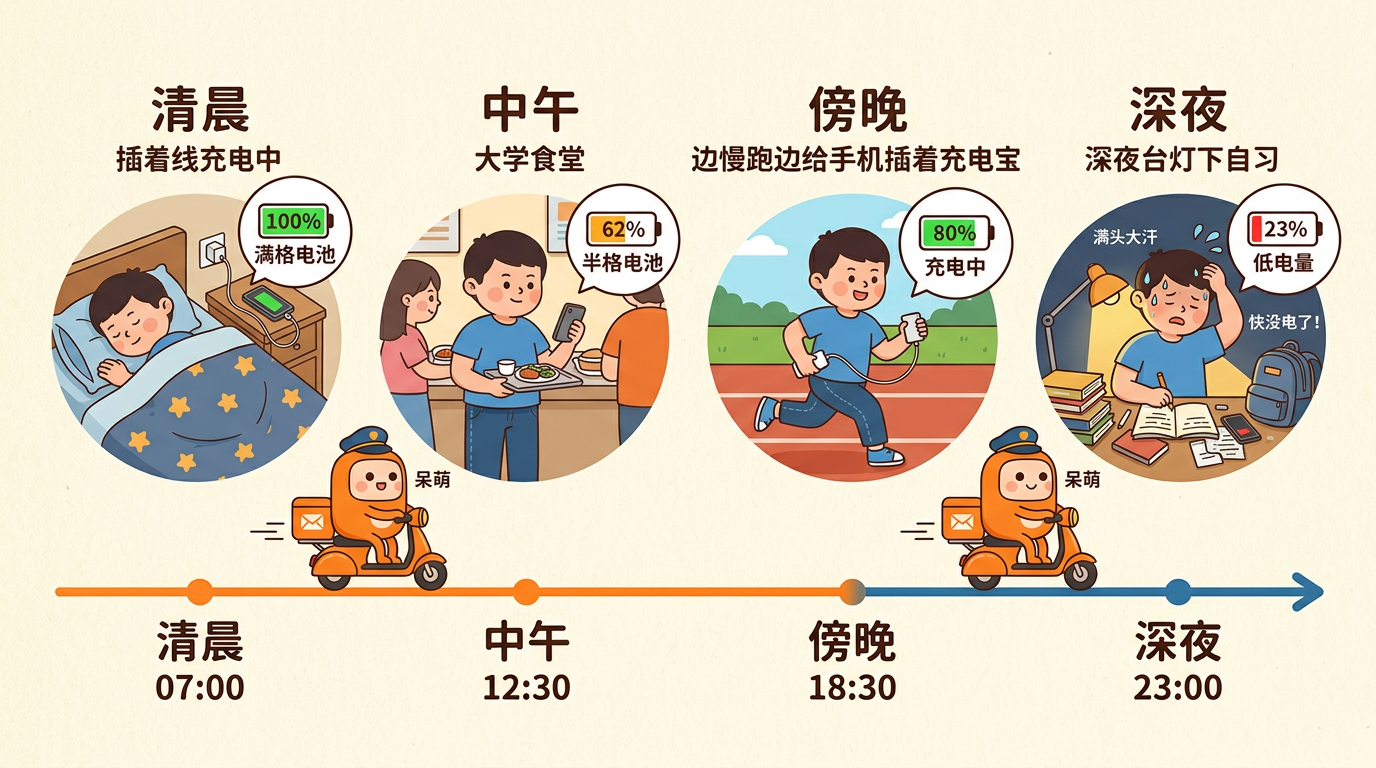
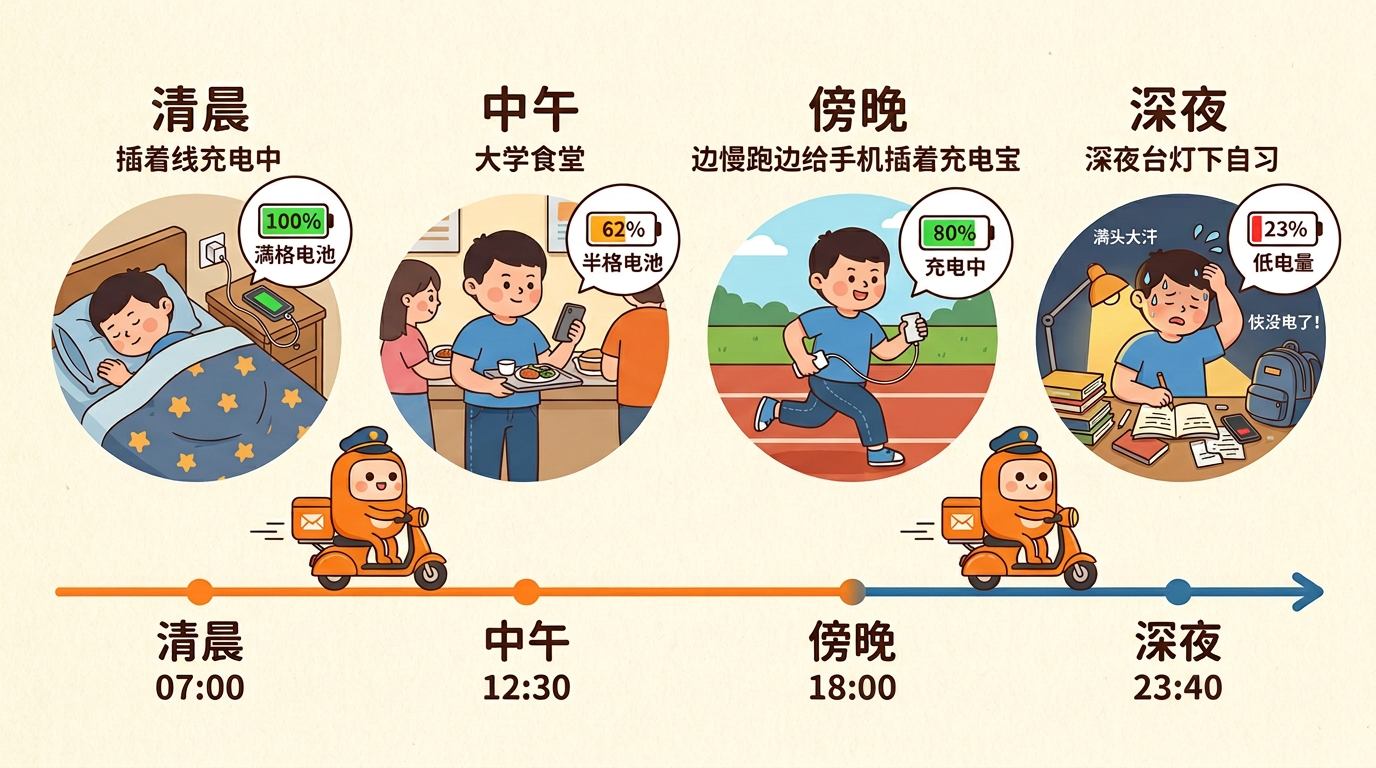
修复两处交互bug＋AI图第二批10张全部植入。【交互】①图片点击改为永远优先放大（揭晓监听捕获阶段对.pic放行，不再抢点击）——有未揭晓内容时也能先看图；②两课件新增底部揭晓提示条「本页还有N条内容未揭晓·点击页面任意处逐条显示」，有未揭晓内容时常驻可见，点击提示条或按R也可揭晓。【插图】4张修复图完成并植入：p07电量(时刻18:00/23:40+去杂字)/p29食堂(背景乱码→石邮食堂)/p40正定(八大碗12:30)/p50满减(够/不够中文标签)；6张新图植入：p16报错翻脸(新增)/p27带饭对比(换旧canteen图)/p28三要素剖面(新增)/p49外卖结算(新增,顶栏配递结

diff --git a/RPA/08_项目二_第1-3讲_变量命令流程_纸上篇_课件_v1.2_20260906.html b/RPA/08_项目二_第1-3讲_变量命令流程_纸上篇_课件_v1.2_20260906.html
@@ -248,28 +248,7 @@ const SLIDES = [
 {cls:"", html:`
   <div class="eyebrow">生活里找变量 · 第 1 站</div>
   <h1>你手机上的<span class="accent">电量</span>，今天变了几次？</h1>
-  <svg viewBox="0 0 980 240" style="width:100%;max-height:29vh;display:block;background:#fff;border:2px solid var(--line);border-radius:14px" xmlns="http://www.w3.org/2000/svg">
-  <text x="500" y="34" text-anchor="middle" font-size="24" fill="#5D4037">⚡ 低电量提醒：夜 23:40 才弹</text>
-  <circle cx="110" cy="120" r="50" fill="#FFF3E0" stroke="#BF360C" stroke-width="5"/>
-  <text x="110" y="131" text-anchor="middle" font-size="30" font-weight="bold" fill="#BF360C">100%</text>
-  <text x="110" y="200" text-anchor="middle" font-size="19" fill="#5D4037">早 7:00 出门</text>
-  <line x1="168" y1="120" x2="308" y2="120" stroke="#8D6E63" stroke-width="4"/><polygon points="308,112 326,120 308,128" fill="#8D6E63"/>
-  <text x="247" y="102" text-anchor="middle" font-size="19" fill="#5D4037">刷视频 −38</text>
-  <circle cx="380" cy="120" r="50" fill="#FFCC80" stroke="#BF360C" stroke-width="5"/>
-  <text x="380" y="131" text-anchor="middle" font-size="30" font-weight="bold" fill="#BF360C">62%</text>
-  <text x="380" y="200" text-anchor="middle" font-size="19" fill="#5D4037">午 12:30</text>
-  <line x1="438" y1="120" x2="578" y2="120" stroke="#2E7D32" stroke-width="4"/><polygon points="578,112 596,120 578,128" fill="#2E7D32"/>
-  <text x="517" y="102" text-anchor="middle" font-size="19" fill="#2E7D32">充电 +18</text>
-  <circle cx="650" cy="120" r="50" fill="#DCEDC8" stroke="#2E7D32" stroke-width="5"/>
-  <text x="650" y="131" text-anchor="middle" font-size="30" font-weight="bold" fill="#2E7D32">80%</text>
-  <text x="650" y="200" text-anchor="middle" font-size="19" fill="#5D4037">晚 18:00</text>
-  <line x1="708" y1="120" x2="848" y2="120" stroke="#8D6E63" stroke-width="4"/><polygon points="848,112 866,120 848,128" fill="#8D6E63"/>
-  <text x="787" y="102" text-anchor="middle" font-size="19" fill="#5D4037">待机一夜 −57</text>
-  <circle cx="920" cy="120" r="50" fill="#fff" stroke="#BF360C" stroke-width="5"/>
-  <text x="920" y="131" text-anchor="middle" font-size="30" font-weight="bold" fill="#BF360C">23%</text>
-  <text x="920" y="200" text-anchor="middle" font-size="19" fill="#5D4037">夜 23:40</text>
-  <rect x="120" y="196" width="700" height="0" fill="none"/>
-</svg>
+  <img class="pic" src="img/ai/p07_dianliang.png" alt="一天四次的电量：有名字·会变·只留最新">
   <div class="rv"><div class="anscard">📱 答案先不说——<b>屏幕上永远只有最新一个数</b>：62 一出现，100 就没了；80 一出现，62 就没了。三问的答案，等你抢答完再揭晓</div></div>
   <div class="steps">
     <div class="step"><div class="n">1</div><div class="t">早上出门 <b>100%</b>，一路刷视频，中午剩 <b>62%</b></div></div>
@@ -397,6 +376,7 @@ const SLIDES = [
 {cls:"", html:`
   <div class="eyebrow">为什么必须分清</div>
   <h1>分错类，机器人<span class="accent">当场翻脸</span></h1>
+  <img class="pic" src="img/ai/p16_fanlian.png" alt=""A8-2012"+10 报错现场：类型混用，机器人翻脸">
   <ul class="items">
     <li>✅ <b>35.5 + 10 = 45.5</b>——数值能算术，天经地义</li>
     <li>❌ <b>"A8-2012" + 10 = ？</b>——编号是文字，加 10 是要干嘛？机器人<b>直接报错</b></li>
@@ -515,7 +495,7 @@ const SLIDES = [
   <div class="eyebrow">引入 · 先说生活</div>
   <h1>让室友带饭，<span class="accent">怎么说他才不会买错？</span></h1>
   <div class="duo">
-    <img class="pic" src="img/canteen.png" alt="食堂打饭窗口">
+    <img class="pic" src="img/ai/p27_daifan.png" alt="「带个饭回来」vs 清单四行：焖面·1份·不要辣·加醋·多要饭">
     <img class="pic" src="img/cmdcard.png" alt="命令卡">
   </div>
   <ul class="items" style="margin-top:8px">
@@ -529,6 +509,7 @@ const SLIDES = [
 {cls:"", html:`
   <div class="eyebrow">老师命名 · 这就是命令的三要素</div>
   <h1>动作 ＋ 参数 ＋ <span class="accent">输出</span></h1>
+  <img class="pic" src="img/ai/p28_sanyaosu.png" alt="命令三要素：参数→动作→输出">
   <div class="cards">
     <div class="card"><h2>动作</h2><li>干什么：买饭／排序／弹出提示</li></div>
     <div class="card"><h2>参数</h2><li>按什么要求：12 元／按姓名排</li></div>
@@ -542,38 +523,7 @@ const SLIDES = [
 {cls:"", html:`
   <div class="eyebrow">案例① · 背景</div>
   <h1>石邮院食堂二楼的<span class="accent">叫号屏</span></h1>
-  <svg viewBox="0 0 980 330" style="width:100%;max-height:29vh;display:block;background:#fff;border:2px solid var(--line);border-radius:14px" xmlns="http://www.w3.org/2000/svg">
-  <text x="245" y="32" text-anchor="middle" font-size="24" fill="#BF360C" font-weight="bold">🕑 12:02 大屏坏时</text>
-  <rect x="40" y="52" width="410" height="170" rx="12" fill="#FFF3E0" stroke="#BF360C" stroke-width="3"/>
-  <rect x="58" y="80" width="80" height="118" fill="#FFCC80" stroke="#8D6E63" stroke-width="3"/>
-  <text x="98" y="146" text-anchor="middle" font-size="19" fill="#5D4037">取餐口</text>
-  <circle cx="200" cy="120" r="14" fill="#8D6E63"/><rect x="188" y="136" width="24" height="40" rx="8" fill="#8D6E63"/>
-  <circle cx="252" cy="105" r="14" fill="#BF360C"/><rect x="240" y="121" width="24" height="42" rx="8" fill="#BF360C"/>
-  <circle cx="305" cy="128" r="14" fill="#5D4037"/><rect x="293" y="144" width="24" height="38" rx="8" fill="#5D4037"/>
-  <circle cx="358" cy="108" r="14" fill="#8D6E63"/><rect x="346" y="124" width="24" height="42" rx="8" fill="#8D6E63"/>
-  <circle cx="410" cy="132" r="14" fill="#BF360C"/><rect x="398" y="148" width="24" height="36" rx="8" fill="#BF360C"/>
-  <rect x="196" y="66" width="104" height="30" rx="12" fill="#fff" stroke="#BF360C" stroke-width="2"/>
-  <text x="248" y="87" text-anchor="middle" font-size="17" fill="#BF360C">先给我！</text>
-  <rect x="300" y="180" width="128" height="30" rx="12" fill="#fff" stroke="#5D4037" stroke-width="2"/>
-  <text x="364" y="201" text-anchor="middle" font-size="17" fill="#5D4037">是不是我的？</text>
-  <line x1="190" y1="200" x2="230" y2="182" stroke="#BF360C" stroke-width="3"/>
-  <line x1="230" y1="200" x2="190" y2="182" stroke="#BF360C" stroke-width="3"/>
-  <text x="245" y="250" text-anchor="middle" font-size="20" fill="#5D4037">20 多人挤成一团，全靠嗓子喊</text>
-  <text x="245" y="282" text-anchor="middle" font-size="23" fill="#BF360C" font-weight="bold">＝ 没有命令，全靠猜</text>
-  <line x1="490" y1="40" x2="490" y2="292" stroke="#E0D5C3" stroke-width="3" stroke-dasharray="8 6"/>
-  <text x="735" y="32" text-anchor="middle" font-size="24" fill="#2E7D32" font-weight="bold">🕓 12:10 大屏修好后</text>
-  <rect x="530" y="52" width="410" height="170" rx="12" fill="#fff" stroke="#2E7D32" stroke-width="3"/>
-  <rect x="552" y="72" width="250" height="52" rx="10" fill="#DCEDC8" stroke="#2E7D32" stroke-width="3"/>
-  <text x="677" y="105" text-anchor="middle" font-size="21" fill="#2E7D32" font-weight="bold">「37 号，麻辣烫好了」</text>
-  <line x1="677" y1="124" x2="677" y2="152" stroke="#2E7D32" stroke-width="3"/><polygon points="677,152 670,140 684,140" fill="#2E7D32"/>
-  <circle cx="677" cy="172" r="13" fill="#2E7D32"/><rect x="666" y="187" width="22" height="30" rx="8" fill="#2E7D32"/>
-  <path d="M 700 205 q 12 -14 24 0 z" fill="#BF360C"/>
-  <rect x="742" y="160" width="170" height="30" rx="12" fill="#fff" stroke="#2E7D32" stroke-width="2"/>
-  <text x="827" y="181" text-anchor="middle" font-size="17" fill="#2E7D32">37 号端走，队伍顺了</text>
-  <text x="735" y="250" text-anchor="middle" font-size="20" fill="#5D4037">同样一群人、同一个窗口</text>
-  <text x="735" y="282" text-anchor="middle" font-size="23" fill="#2E7D32" font-weight="bold">＝ 一条命令，三样齐全</text>
-  <text x="490" y="318" text-anchor="middle" font-size="20" fill="#8D6E63">变的只有一件事：话说没说清楚</text>
-</svg>
+  <img class="pic" src="img/ai/p29_jiaohao.png" alt="12:02没命令全靠猜 vs 12:10一条命令三样齐全">
   <ul class="items" style="margin-top:6px">
       <li>周三 12:02，食堂二楼<b>麻辣烫窗口</b>排了 20 多人，取餐口挤成一团——谁端走了谁的碗，全靠嗓子喊</li>
       <li>12:10 大屏修好，弹出一句话，队伍立刻顺了：<b>「37 号同学，你的麻辣烫好了」</b></li>
@@ -697,38 +647,7 @@ const SLIDES = [
   ], html:`
   <div class="eyebrow">案例③ · 背景</div>
   <h1>周六，正定古城<span class="accent">一日游</span></h1>
-  <svg viewBox="0 0 980 400" style="width:100%;max-height:27vh;display:block;background:#fff;border:2px solid var(--line);border-radius:14px" xmlns="http://www.w3.org/2000/svg">
-  <rect x="20" y="52" width="96" height="40" rx="20" fill="#BF360C"/><text x="68" y="80" text-anchor="middle" font-size="23" fill="#fff">顺序</text>
-  <rect x="130" y="56" width="128" height="54" rx="12" fill="#FFF3E0" stroke="#BF360C" stroke-width="3"/><text x="194" y="90" text-anchor="middle" font-size="22" fill="#212121">石邮院</text>
-  <line x1="258" y1="83" x2="296" y2="83" stroke="#8D6E63" stroke-width="3"/><polygon points="296,76 310,83 296,90" fill="#8D6E63"/>
-  <rect x="312" y="56" width="128" height="54" rx="12" fill="#FFF3E0" stroke="#BF360C" stroke-width="3"/><text x="376" y="90" text-anchor="middle" font-size="22" fill="#212121">隆兴寺</text>
-  <line x1="440" y1="83" x2="478" y2="83" stroke="#8D6E63" stroke-width="3"/><polygon points="478,76 492,83 478,90" fill="#8D6E63"/>
-  <rect x="494" y="56" width="150" height="54" rx="12" fill="#FFF3E0" stroke="#BF360C" stroke-width="3"/><text x="569" y="90" text-anchor="middle" font-size="22" fill="#212121">荣国府·午餐</text>
-  <line x1="644" y1="83" x2="682" y2="83" stroke="#8D6E63" stroke-width="3"/><polygon points="682,76 696,83 682,90" fill="#8D6E63"/>
-  <rect x="698" y="56" width="128" height="54" rx="12" fill="#FFF3E0" stroke="#BF360C" stroke-width="3"/><text x="762" y="90" text-anchor="middle" font-size="22" fill="#212121">正定夜市</text>
-  <line x1="826" y1="83" x2="856" y2="83" stroke="#8D6E63" stroke-width="3"/><polygon points="856,76 870,83 856,90" fill="#8D6E63"/>
-  <rect x="872" y="56" width="88" height="54" rx="12" fill="#FFF3E0" stroke="#BF360C" stroke-width="3"/><text x="916" y="90" text-anchor="middle" font-size="22" fill="#212121">回校</text>
-  <rect x="20" y="182" width="96" height="40" rx="20" fill="#2E7D32"/><text x="68" y="210" text-anchor="middle" font-size="23" fill="#fff">条件</text>
-  <polygon points="330,146 446,202 330,258 214,202" fill="#fff" stroke="#2E7D32" stroke-width="3"/>
-  <text x="330" y="196" text-anchor="middle" font-size="22" fill="#212121">天气</text>
-  <text x="330" y="226" text-anchor="middle" font-size="22" fill="#212121">怎么样？</text>
-  <line x1="446" y1="188" x2="520" y2="164" stroke="#2E7D32" stroke-width="3"/><polygon points="520,164 506,162 512,174" fill="#2E7D32"/>
-  <text x="486" y="158" text-anchor="middle" font-size="20" fill="#2E7D32">下雨</text>
-  <rect x="524" y="140" width="200" height="50" rx="12" fill="#E8F0E9" stroke="#2E7D32" stroke-width="3"/><text x="624" y="172" text-anchor="middle" font-size="21" fill="#212121">改逛博物馆</text>
-  <line x1="446" y1="216" x2="520" y2="244" stroke="#8D6E63" stroke-width="3"/><polygon points="520,244 512,232 506,244" fill="#8D6E63"/>
-  <text x="486" y="252" text-anchor="middle" font-size="20" fill="#5D4037">晴天</text>
-  <rect x="524" y="222" width="200" height="50" rx="12" fill="#FFF3E0" stroke="#BF360C" stroke-width="3"/><text x="624" y="254" text-anchor="middle" font-size="21" fill="#212121">按原路线走</text>
-  <rect x="20" y="316" width="96" height="40" rx="20" fill="#5D4037"/><text x="68" y="344" text-anchor="middle" font-size="23" fill="#fff">循环</text>
-  <rect x="150" y="316" width="190" height="54" rx="12" fill="#FFF3E0" stroke="#5D4037" stroke-width="3"/><text x="245" y="350" text-anchor="middle" font-size="21" fill="#212121">每到一个景点</text>
-  <line x1="340" y1="343" x2="388" y2="343" stroke="#8D6E63" stroke-width="3"/><polygon points="388,336 402,343 388,350" fill="#8D6E63"/>
-  <rect x="404" y="316" width="180" height="54" rx="12" fill="#FFF3E0" stroke="#5D4037" stroke-width="3"/><text x="494" y="350" text-anchor="middle" font-size="21" fill="#212121">打卡拍照</text>
-  <line x1="584" y1="343" x2="632" y2="343" stroke="#8D6E63" stroke-width="3"/><polygon points="632,336 646,343 632,350" fill="#8D6E63"/>
-  <rect x="648" y="316" width="170" height="54" rx="12" fill="#FFF3E0" stroke="#5D4037" stroke-width="3"/><text x="733" y="350" text-anchor="middle" font-size="21" fill="#212121">去下一个</text>
-  <path d="M 733 316 C 733 288 245 288 245 314" fill="none" stroke="#5D4037" stroke-width="3" stroke-dasharray="8 6"/>
-  <polygon points="245,314 238,300 252,300" fill="#5D4037"/>
-  <text x="490" y="292" text-anchor="middle" font-size="20" fill="#5D4037">重复，直到把 4 个景点逛完</text>
-  <text x="500" y="392" text-anchor="middle" font-size="20" fill="#8D6E63">——班委贴在群里的三行命令，就长这样（找找哪行缺了关键参数）</text>
-</svg>
+  <img class="pic" src="img/ai/p40_zhengding.png" alt="正定古城一日游行程图：顺序+条件+循环">
   <ul class="items" style="margin-top:6px">
     <li>周五晚，班级群接龙：<b>38 人报名</b>。班委包了往返大巴（每人 15 元）；隆兴寺<b>学生半价 25 元</b>；中午荣国府旁吃<b>正定八大碗</b>；晚上逛正定夜市再回学校</li>
     <li>班委把行程写成了三行命令，贴在群里：<br>
@@ -841,6 +760,7 @@ const SLIDES = [
 {cls:"", html:`
   <div class="eyebrow">回收 · 第 2 次课那道题</div>
   <h1>外卖满减：<span class="accent">这回机器人算</span></h1>
+  <img class="pic" src="img/ai/p49_waimai.png" alt="外卖满减：39.9×2=79.8，满25减4，应付75.8">
   <ul class="items">
     <li>第 2 次课：老师黑板算——39.9 × 2 → 满 25 减 4 → <b>应付 75.8</b></li>
     <li>今天：<b>你让「人机器人」算</b>——同桌照你的图纸一步一步执行</li>
@@ -852,40 +772,13 @@ const SLIDES = [
   <div class="eyebrow">任务卡 A</div>
   <div class="task-card">
     <h2>🛒 外卖满减计算器</h2>
-    <li><img class="pic" src="img/waimai.png" alt="外卖满减" style="max-height:18vh;max-width:34%"></li>
+    <li></li>
     <li>① 建变量：单价（39.9）、份数（2）——<b>选对类型</b></li>
     <li>② 算出小计，再判断：<b>满 25 减 4</b>（这就是条件！）</li>
     <li>③ 弹出：「应付 75.8 元」</li>
     <li>🏅 挑战：份数改成 3，你的流程还 对 吗？先猜再「跑」</li>
   </div>
-<svg viewBox="0 0 980 280" style="width:100%;max-height:24vh;display:block;background:#fff;border:2px solid var(--line);border-radius:14px;margin-top:8px" xmlns="http://www.w3.org/2000/svg">
-  <rect x="40" y="100" width="210" height="70" rx="12" fill="#FFF3E0" stroke="#BF360C" stroke-width="3"/>
-  <text x="145" y="128" text-anchor="middle" font-size="20" fill="#212121">输入</text>
-  <text x="145" y="156" text-anchor="middle" font-size="20" fill="#BF360C" font-weight="bold">单价 39.9 × 2 份</text>
-  <line x1="250" y1="135" x2="296" y2="135" stroke="#8D6E63" stroke-width="3"/><polygon points="296,128 310,135 296,142" fill="#8D6E63"/>
-  <rect x="312" y="100" width="170" height="70" rx="12" fill="#fff" stroke="#5D4037" stroke-width="3"/>
-  <text x="397" y="128" text-anchor="middle" font-size="20" fill="#212121">算小计</text>
-  <text x="397" y="156" text-anchor="middle" font-size="20" fill="#BF360C" font-weight="bold">79.8 元</text>
-  <line x1="482" y1="135" x2="520" y2="135" stroke="#8D6E63" stroke-width="3"/><polygon points="520,128 534,135 520,142" fill="#8D6E63"/>
-  <polygon points="625,80 740,135 625,190 510,135" fill="#fff" stroke="#BF360C" stroke-width="3"/>
-  <text x="625" y="128" text-anchor="middle" font-size="20" fill="#212121">小计 ≥ 25 ？</text>
-  <text x="625" y="156" text-anchor="middle" font-size="18" fill="#8D6E63">（满减线）</text>
-  <line x1="740" y1="120" x2="790" y2="92" stroke="#2E7D32" stroke-width="3"/><polygon points="790,92 776,92 784,104" fill="#2E7D32"/>
-  <text x="762" y="86" text-anchor="middle" font-size="19" fill="#2E7D32" font-weight="bold">是</text>
-  <rect x="794" y="56" width="170" height="56" rx="12" fill="#DCEDC8" stroke="#2E7D32" stroke-width="3"/>
-  <text x="879" y="90" text-anchor="middle" font-size="19" fill="#2E7D32">应付＝小计 − 4</text>
-  <line x1="740" y1="152" x2="790" y2="180" stroke="#BF360C" stroke-width="3"/><polygon points="790,180 784,168 776,180" fill="#BF360C"/>
-  <text x="762" y="192" text-anchor="middle" font-size="19" fill="#BF360C" font-weight="bold">否</text>
-  <rect x="794" y="176" width="170" height="56" rx="12" fill="#FFF3E0" stroke="#BF360C" stroke-width="3"/>
-  <text x="879" y="210" text-anchor="middle" font-size="19" fill="#BF360C">应付＝小计</text>
-  <line x1="879" y1="112" x2="879" y2="226" stroke="#8D6E63" stroke-width="0"/>
-  <path d="M 879 232 C 879 262 500 262 470 240" fill="none" stroke="#8D6E63" stroke-width="3"/>
-  <path d="M 700 232 C 700 262 660 262 640 248" fill="none" stroke="#8D6E63" stroke-width="3"/>
-  <polygon points="470,240 470,226 484,234" fill="#8D6E63"/>
-  <rect x="300" y="216" width="330" height="50" rx="12" fill="#FFCC80" stroke="#BF360C" stroke-width="3"/>
-  <text x="465" y="248" text-anchor="middle" font-size="21" fill="#BF360C" font-weight="bold">弹出：「应付 75.8 元」</text>
-  <text x="490" y="34" text-anchor="middle" font-size="22" fill="#5D4037" font-weight="bold">外卖满减计算器 · 图纸（第 5 次课照它搭真流程）</text>
-</svg>`,
+<img class="pic" src="img/ai/p50_manjian.png" alt="满减流程：输入→小计79.8→够25吗→减4/原价→75.8">`,
  notes:"挑战题专门抓「写死 75.8」的人——数是变量算出来的，不是抄出来的。这正是变量的意义。"},
 
 {cls:"", html:`
@@ -950,25 +843,7 @@ const SLIDES = [
 
 {cls:"", html:`
   <div class="eyebrow">全班找错 · 三张带病图纸</div>
-  <svg viewBox="0 0 980 220" style="width:100%;max-height:19vh;display:block;background:#fff;border:2px solid var(--line);border-radius:14px;margin-bottom:8px" xmlns="http://www.w3.org/2000/svg">
-  <text x="490" y="32" text-anchor="middle" font-size="22" fill="#5D4037" font-weight="bold">调试三步 · 一个圈转到底</text>
-  <rect x="60" y="70" width="230" height="76" rx="14" fill="#FFF3E0" stroke="#BF360C" stroke-width="3"/>
-  <text x="175" y="102" text-anchor="middle" font-size="21" fill="#BF360C" font-weight="bold">① 读现象</text>
-  <text x="175" y="130" text-anchor="middle" font-size="18" fill="#212121">执行人卡在哪一步？</text>
-  <line x1="290" y1="108" x2="346" y2="108" stroke="#8D6E63" stroke-width="3"/><polygon points="346,101 360,108 346,115" fill="#8D6E63"/>
-  <rect x="362" y="70" width="230" height="76" rx="14" fill="#fff" stroke="#5D4037" stroke-width="3"/>
-  <text x="477" y="102" text-anchor="middle" font-size="21" fill="#5D4037" font-weight="bold">② 定位</text>
-  <text x="477" y="130" text-anchor="middle" font-size="18" fill="#212121">图纸的那一行——就一处</text>
-  <line x1="592" y1="108" x2="648" y2="108" stroke="#8D6E63" stroke-width="3"/><polygon points="648,101 662,108 648,115" fill="#8D6E63"/>
-  <rect x="664" y="70" width="230" height="76" rx="14" fill="#E8F0E9" stroke="#2E7D32" stroke-width="3"/>
-  <text x="779" y="102" text-anchor="middle" font-size="21" fill="#2E7D32" font-weight="bold">③ 最小改动</text>
-  <text x="779" y="130" text-anchor="middle" font-size="18" fill="#212121">一次只改一处，马上再跑</text>
-  <path d="M 779 70 C 779 30 175 30 175 66" fill="none" stroke="#BF360C" stroke-width="3" stroke-dasharray="8 6"/>
-  <polygon points="175,66 168,52 182,52" fill="#BF360C"/>
-  <text x="477" y="46" text-anchor="middle" font-size="18" fill="#BF360C">再跑还卡？回①——别一口气改五处</text>
-  <text x="490" y="188" text-anchor="middle" font-size="19" fill="#8D6E63">每收一次网，册子记一行：现象 → 改了哪行 → 再跑怎样（排错三行）</text>
-  <text x="490" y="214" text-anchor="middle" font-size="19" fill="#212121">下面三张病号图纸，照这个圈诊一遍——病在哪一行？</text>
-</svg>
+  <img class="pic" src="img/ai/p57_bingli.png" alt="三张带病图纸：少参数·类型错·顺序反">
   <div class="task-card">
     <h2>🐛 投影三张图纸，病在哪？</h2>
     <li>病号①：<b>变量名对不上</b>——图纸上建的是 banFei，用的时候写成 bangFei</li>
@@ -1124,12 +999,26 @@ window.addEventListener("touchend", (e) => {
     h[0].classList.add("rvshow");
     if (h[0].scrollIntoView) h[0].scrollIntoView({behavior:"smooth", block:"nearest"});
     if (!hiddenRv().length && rvBtn) rvBtn.textContent = "✓ 已揭晓";
+    syncRvPill();
   }
   if (rvBtn) rvBtn.onclick = revealNext;
+  /* ===== 揭晓提示条：有未揭晓内容时常驻提示，写明点哪里 ===== */
+  var rvPill = document.createElement("div");
+  rvPill.className = "rvpill";
+  rvPill.style.cssText = "position:fixed;left:50%;transform:translateX(-50%);bottom:64px;background:#BF360C;color:#fff;padding:9px 22px;border-radius:999px;font-size:17px;z-index:60;box-shadow:0 4px 12px rgba(0,0,0,.28);display:none;cursor:pointer;white-space:nowrap";
+  document.body.appendChild(rvPill);
+  rvPill.onclick = function(e){ e.stopPropagation(); revealNext(); };
+  function syncRvPill(){
+    var n = hiddenRv().length;
+    if (n){ rvPill.style.display = "block"; rvPill.textContent = "👇 本页还有 " + n + " 条内容未揭晓 · 点击页面任意处逐条显示（按 R 键也行）"; }
+    else { rvPill.style.display = "none"; }
+  }
+  syncRvPill();
   window.addEventListener("keydown", function(e){
     if (e.key === "r" || e.key === "R") revealNext();
   });
   document.addEventListener("click", function(e){
+    if (e.target && e.target.closest && e.target.closest(".pic")) return; /* 点图片=只放大看图，不消耗揭晓 */
     var st = document.getElementById("stage");
     if (st && st.contains(e.target) && hiddenRv().length){
       revealNext();
@@ -1145,6 +1034,7 @@ window.addEventListener("touchend", (e) => {
       rvBtn.style.display = has ? "" : "none";
       rvBtn.textContent = "▶ 揭晓";
     }
+    syncRvPill();
   };
 })();
 </script>

diff --git a/RPA/10_项目二_第4讲_机器人上岗_课件_v1.2_20260906.html b/RPA/10_项目二_第4讲_机器人上岗_课件_v1.2_20260906.html
@@ -239,29 +239,7 @@ const SLIDES = [
 {cls:"", html:`
   <div class="eyebrow">纸上的格子搬进来</div>
   <h1>纸上的「余额」格 ↔ <span class="accent">软件里三步</span></h1>
-  <svg viewBox="0 0 980 300" style="width:100%;max-height:26vh;display:block;background:#fff;border:2px solid var(--line);border-radius:14px" xmlns="http://www.w3.org/2000/svg">
-  <text x="490" y="32" text-anchor="middle" font-size="22" fill="#5D4037" font-weight="bold">纸上的动作 ↔ 软件里的按钮（一一对应）</text>
-  <rect x="60" y="52" width="360" height="48" rx="12" fill="#FFF3E0" stroke="#BF360C" stroke-width="3"/>
-  <text x="240" y="83" text-anchor="middle" font-size="20" fill="#212121">纸上：画格子、写名字</text>
-  <line x1="430" y1="76" x2="560" y2="76" stroke="#8D6E63" stroke-width="3"/><polygon points="560,69 574,76 560,83" fill="#8D6E63"/>
-  <rect x="580" y="52" width="340" height="48" rx="12" fill="#E8F0E9" stroke="#2E7D32" stroke-width="3"/>
-  <text x="750" y="83" text-anchor="middle" font-size="20" fill="#2E7D32" font-weight="bold">新建变量 ＋ 选类型</text>
-  <rect x="60" y="112" width="360" height="48" rx="12" fill="#FFF3E0" stroke="#BF360C" stroke-width="3"/>
-  <text x="240" y="143" text-anchor="middle" font-size="20" fill="#212121">纸上：把 50 放进格子</text>
-  <line x1="430" y1="136" x2="560" y2="136" stroke="#8D6E63" stroke-width="3"/><polygon points="560,129 574,136 560,143" fill="#8D6E63"/>
-  <rect x="580" y="112" width="340" height="48" rx="12" fill="#E8F0E9" stroke="#2E7D32" stroke-width="3"/>
-  <text x="750" y="143" text-anchor="middle" font-size="20" fill="#2E7D32" font-weight="bold">赋值（把数装进去）</text>
-  <rect x="60" y="172" width="360" height="48" rx="12" fill="#FFF3E0" stroke="#BF360C" stroke-width="3"/>
-  <text x="240" y="203" text-anchor="middle" font-size="20" fill="#212121">纸上：擦掉写 200（只留最新）</text>
-  <line x1="430" y1="196" x2="560" y2="196" stroke="#8D6E63" stroke-width="3"/><polygon points="560,189 574,196 560,203" fill="#8D6E63"/>
-  <rect x="580" y="172" width="340" height="48" rx="12" fill="#E8F0E9" stroke="#2E7D32" stroke-width="3"/>
-  <text x="750" y="203" text-anchor="middle" font-size="20" fill="#2E7D32" font-weight="bold">再赋值一次</text>
-  <rect x="60" y="232" width="360" height="48" rx="12" fill="#FFF3E0" stroke="#BF360C" stroke-width="3"/>
-  <text x="240" y="263" text-anchor="middle" font-size="20" fill="#212121">纸上：报出格子里的数</text>
-  <line x1="430" y1="256" x2="560" y2="256" stroke="#8D6E63" stroke-width="3"/><polygon points="560,249 574,256 560,263" fill="#8D6E63"/>
-  <rect x="580" y="232" width="340" height="48" rx="12" fill="#E8F0E9" stroke="#2E7D32" stroke-width="3"/>
-  <text x="750" y="263" text-anchor="middle" font-size="20" fill="#2E7D32" font-weight="bold">输出（运行看结果）</text>
-</svg>
+  <img class="pic" src="img/ai/10_p07_duizhao.png" alt="纸上余额格 ↔ 软件四块积木：上机只是搬家">
   <ul class="items" style="margin-top:12px">
     <li>🙋 抢答：纸上「放 50 再放 200」，对应软件哪一步？——<b>赋值做两次</b></li>
   </ul>`,
@@ -510,12 +488,26 @@ window.addEventListener("touchend", (e) => {
     h[0].classList.add("rvshow");
     if (h[0].scrollIntoView) h[0].scrollIntoView({behavior:"smooth", block:"nearest"});
     if (!hiddenRv().length && rvBtn) rvBtn.textContent = "✓ 已揭晓";
+    syncRvPill();
   }
   if (rvBtn) rvBtn.onclick = revealNext;
+  /* ===== 揭晓提示条：有未揭晓内容时常驻提示，写明点哪里 ===== */
+  var rvPill = document.createElement("div");
+  rvPill.className = "rvpill";
+  rvPill.style.cssText = "position:fixed;left:50%;transform:translateX(-50%);bottom:64px;background:#BF360C;color:#fff;padding:9px 22px;border-radius:999px;font-size:17px;z-index:60;box-shadow:0 4px 12px rgba(0,0,0,.28);display:none;cursor:pointer;white-space:nowrap";
+  document.body.appendChild(rvPill);
+  rvPill.onclick = function(e){ e.stopPropagation(); revealNext(); };
+  function syncRvPill(){
+    var n = hiddenRv().length;
+    if (n){ rvPill.style.display = "block"; rvPill.textContent = "👇 本页还有 " + n + " 条内容未揭晓 · 点击页面任意处逐条显示（按 R 键也行）"; }
+    else { rvPill.style.display = "none"; }
+  }
+  syncRvPill();
   window.addEventListener("keydown", function(e){
     if (e.key === "r" || e.key === "R") revealNext();
   });
   document.addEventListener("click", function(e){
+    if (e.target && e.target.closest && e.target.closest(".pic")) return; /* 点图片=只放大看图，不消耗揭晓 */
     var st = document.getElementById("stage");
     if (st && st.contains(e.target) && hiddenRv().length){
       revealNext();
@@ -531,6 +523,7 @@ window.addEventListener("touchend", (e) => {
       rvBtn.style.display = has ? "" : "none";
       rvBtn.textContent = "▶ 揭晓";
     }
+    syncRvPill();
   };
 })();
 </script>
